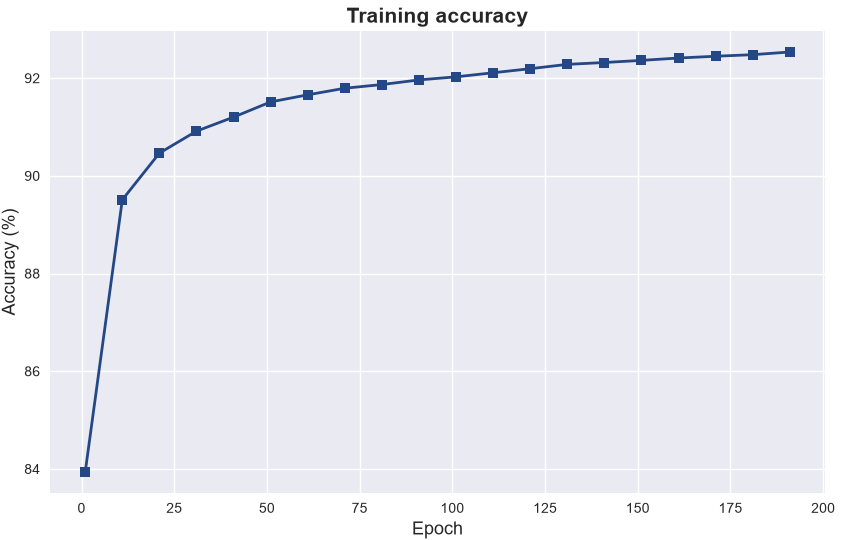
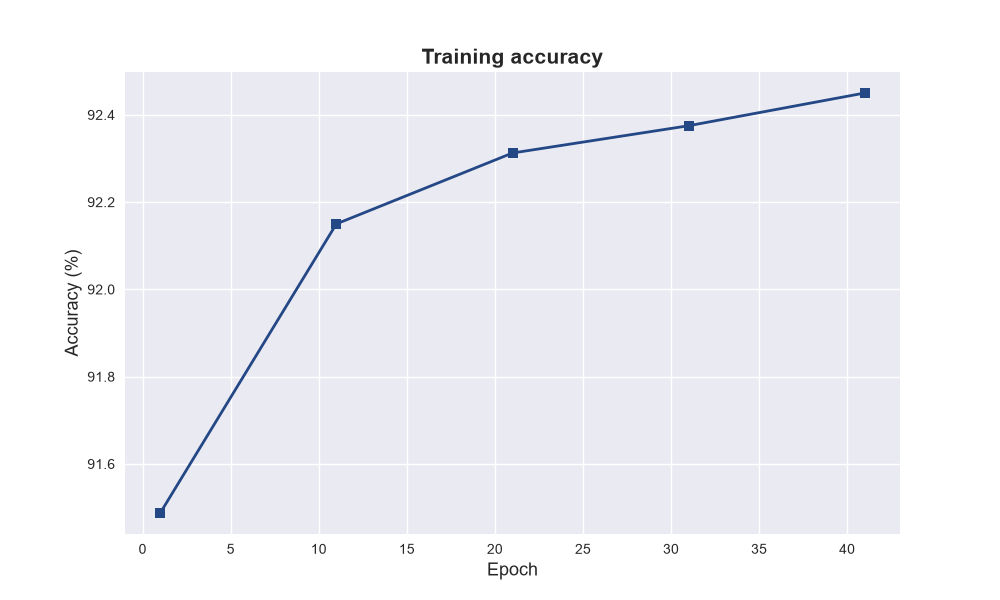
Minor improvements.

diff --git a/utils.py b/utils.py
@@ -63,12 +63,10 @@ class Classifier():
         Yt = self.onehot(y)
 
         batch_size = n if self.batch_size is None else self.batch_size
-
-        if return_metrics:
-            loss_curve = { }
-            acc_curve = { }
+        
+        loss_curve = { } 
+        acc_curve = { }
             
-
         for step in range(self.epochs):
     
             indexes = np.random.permutation(n)
@@ -95,16 +93,42 @@ class Classifier():
             if step % 10 == 0:
                 y_pred = self.forward(Xt)
                 y_classified = self.classify(Xt)
+
                 loss = self.cross_entropy( Yt , y_pred )
                 acc = 100 * self.accuracy(y,y_classified)
-                if return_metrics:
-                    loss_curve[step + 1] = loss
-                    acc_curve[step + 1] = acc
+
+                loss_curve[step + 1] = loss
+                acc_curve[step + 1] = acc
+
                 print(f'Epochs {step + 1} | Loss {loss:.4f} | Accuracy {acc:.2f} %')
 
+        loss_df = pd.Series(loss_curve,name='Training loss')
+        acc_df = pd.Series(acc_curve,name='Training accuracy')
+
+        if plot_metrics:
+
+            plt.style.use('seaborn-v0_8')
+            os.makedirs('./figures',exist_ok=True)
+
+            plt.figure(figsize=(10,6))
+            plt.plot( loss_df , 'o-', linewidth = 2 ,color = '#244785' )
+            plt.xlabel('Epoch',fontsize=13)
+            plt.ylabel(r'$\mathcal{L}$',fontsize=15)
+            plt.grid(True)
+            plt.title('Training cross-entropy loss',fontsize = 15, fontweight='bold')
+            plt.savefig('./figures/MNIST_training_loss')
+            plt.show()
+
+            plt.figure(figsize=(10,6))
+            plt.plot( acc_df , 's-', linewidth = 2 ,color = '#244785')
+            plt.xlabel('Epoch',fontsize=13)
+            plt.ylabel('Accuracy (%)',fontsize=13)
+            plt.grid(True)
+            plt.title('Training accuracy',fontsize = 15, fontweight='bold')
+            plt.savefig('./figures/MNIST_training_accuracy.png' , )
+            plt.show()
+
         if return_metrics:
-            loss_df = pd.Series(loss_curve,name='Training loss')
-            acc_df = pd.Series(acc_curve,name='Training accuracy')
             return loss_df, acc_df
 
     def evaluate(self,X,y):
